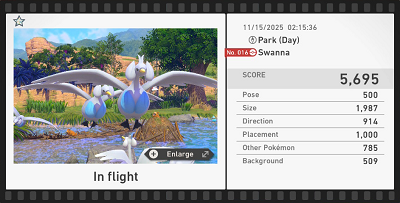
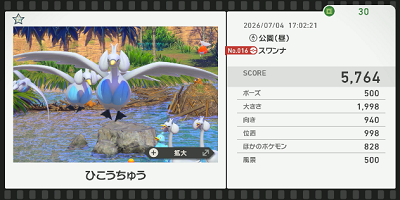
スワンナ★1の加筆など

diff --git a/src/data/pokemon/swanna.ts b/src/data/pokemon/swanna.ts
@@ -19,17 +19,17 @@ export default {
           },
           videos: [
             {
-              name: "",
-              score: "",
-              url: "",
+              name: "黒歌鳥",
+              score: "5764",
+              url: "https://www.youtube.com/watch?v=NSi_kzS67zQ",
             },
           ],
           steps: [
             { type: "text", content: "焼けたリンゴのあたりにリンゴを投げ、エモンガを木から降ろす。そのままリンゴで誘導し、丘の上までつれていく。" },
             { type: "text", content: "丘の頂点付近に到達したあたりでピジョットが出現。この頃から空を飛ぶスワンナの周回が始まり、正面から撮影するには低空を飛行する3周目まで手前に留まる必要がある。" },
-            { type: "text", content: "つれてきたエモンガがリンゴを焼いているうちに衝突してブレーキ→次のリンゴを投げる→食べ始める前にサーチをかけて衝突してブレーキ、というループを繰り返して時間を稼ぐ。5回程度ブレーキをかければ足りる。" },
-            { type: "text", content: "さらなる加点を狙うなら、ブレーキ中にビッパの巣の頂点にリンゴをぶつけてビッパの顔を出させたり、湖のスワンナにリンゴを食べさせ、食後に喜んでいるポーズ（※）をとらせるなどする。\n※ポーズ点は前半450・後半750程度。前半であっても翼を広げるので大きさ点を稼げる。" },
-            { type: "text", content: "低空で飛行してきたスワンナをズームアウトズームインで最大ズーム一歩手前くらいで撮影し、他のポケモンや背景をしっかり写す。" },
+            { type: "text", content: "つれてきたエモンガがリンゴを焼いているうちに衝突してブレーキ→次のリンゴを投げる→食べ始める前にサーチをかけて衝突してブレーキ、というループを繰り返して時間を稼ぐ。6回程度ブレーキをかければ足りる。" },
+            { type: "text", content: "さらなる加点を狙うなら、ブレーキ中にビッパの巣の頂点にリンゴをぶつけてビッパの顔を出させたり、湖のスワンナを手前の岩付近に集めたりする。湖のスワンナたちは空を飛んでいるコアルヒーが着水すると動かなくなるので、早めに動かす。コイキングが跳ねるかはランダム。" },
+            { type: "text", content: "低空で飛行してきたスワンナを撮影。スワンナの翼の状態はランダムで、M字状のもの以外は大きさが足りなくなりがち。" },
           ]
         },
         {

diff --git a/src/data/pokemon/woobat.ts b/src/data/pokemon/woobat.ts
@@ -15,7 +15,7 @@ export default {
             pose: "変動(1000)",
             position: "胴",
             friend: [""],
-            others: "ゴルーグ、ワタシラガ、ブラッキー、シンボラー",
+            others: "ゴルーグ、オーベム、ワタシラガ、ブラッキー、シンボラー",
           },
           videos: [
             {
@@ -38,7 +38,7 @@ export default {
             pose: "変動(1000)",
             position: "胴",
             friend: [""],
-            others: "シンボラー",
+            others: "ゴルーグ、オーベム、ワタシラガ、シンボラー、シャンデラ",
           },
           videos: [
             {
@@ -61,7 +61,7 @@ export default {
             pose: "変動(1000)",
             position: "胴",
             friend: [""],
-            others: "ゴルーグ、ワタシラガ、シンボラー",
+            others: "ゴルーグ、オーベム、ワタシラガ、シンボラー、シャンデラ",
           },
           videos: [
             {
@@ -84,7 +84,7 @@ export default {
             pose: "変動(1000)",
             position: "胴",
             friend: [""],
-            others: "ゴルーグ、ワタシラガ、ブラッキー、シンボラー、シャンデラ",
+            others: "ゴルーグ、オーベム、ワタシラガ、ブラッキー、シンボラー、シャンデラ",
           },
           videos: [
             {

diff --git a/public/css/nps.css b/public/css/nps.css
@@ -52,7 +52,7 @@ h3 {
 }
 #header {
     display: flex;
-    gap:20px;
+    justify-content: space-between;
     align-items: center;
     background: transparent;
     box-shadow: none;
@@ -88,7 +88,7 @@ h3 {
 }
 #pokesearch {
     width:100%;
-    background-color:#fff;
+    background-color:#f9f9f9;
     border:1px solid #aaa;
     border-radius: 0.3em;
     margin-top:0.4rem;
